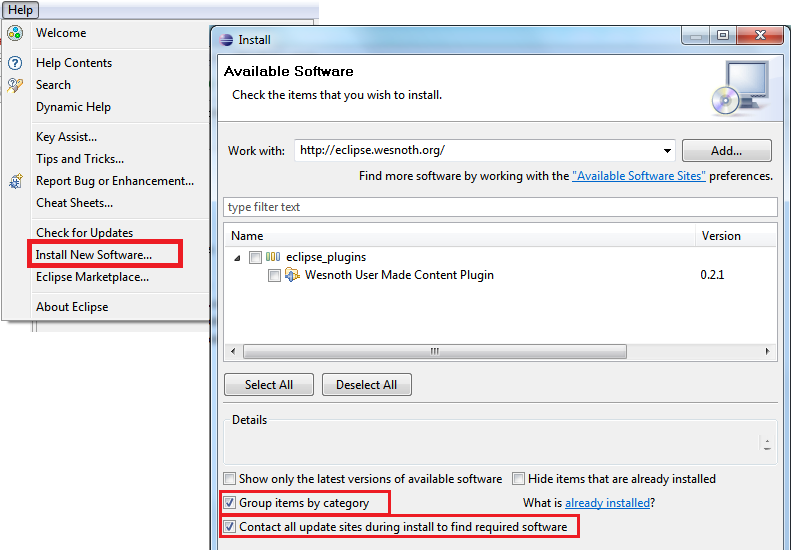
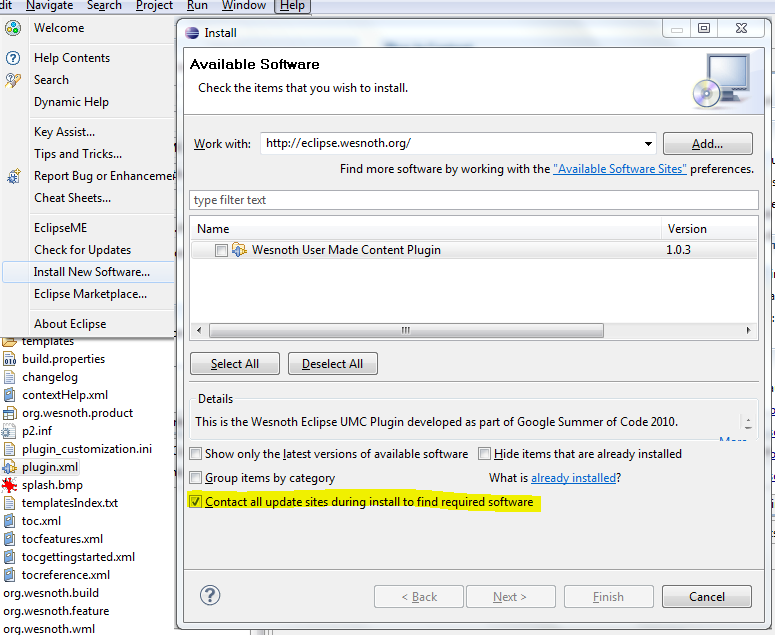
eclipse plugin: Update the user's manual to reflect the current state
git-svn-id: http://svn.gna.org/svn/wesnoth/trunk@50041 75b3775d-3801-0410-9e12-e2e43121521d

diff --git a/utils/umc_dev/manual/user_manual.tex b/utils/umc_dev/manual/user_manual.tex
@@ -1,6 +1,7 @@
 \documentclass[10pt]{article}
 \usepackage[top=1cm, bottom=1cm, left=1cm, right=1cm]{geometry}
 \usepackage{graphicx}
+\usepackage{multicol}
 \usepackage[colorlinks=true]{hyperref}
 \usepackage{verbatim}
 \usepackage{enumerate}
@@ -19,62 +20,74 @@
 \newcounter{cnt}
 \newcommand{\icnt}{ \stepcounter{cnt} \thecnt }
 
-\section{Foreword} \hskip\parindent
+\section{Foreword}
+\begin{multicols}{2}
+  \begin{center}
+    \includegraphics[scale=0.6]{definitions.png}
+  \end{center}
 Through this readme the following terms with the specified meaning will be used:
 \begin{enumerate}
-\item Navigator - an Eclipse view that shows the projects in the workspace
+\item Navigator / Project Explorer / Package Explorer - an Eclipse view that shows the projects in the workspace
 \item Project - a directory on the harddrive that is represented as a top directory in the navigator.
 \item Container - this is a directory or a project. Basically it can contain any file or directory children.
 \end{enumerate}
 
 The following image will highlight the terms used: 1 - Navigator, 2 - Project, 3 - Containers, 4 - Map files, 5 - Config files that contain WML code
+\end{multicols}
 
-\includegraphics{definitions.png}
+\section{Prerequisites}
+A quick list before getting into details:
+\begin{enumerate}
+\item Java 6
+\item Python 2.x
+\item Eclipse 3.5 or newer
+\item Wesnoth 1.9.x, trunk or newer
+\end{enumerate}
 
-\section{Common prerequisites}
+Now for getting all those items:
 \begin{enumerate}
 \item The plugin runs on the following platforms: Windows 32/64 bit, Linux 32/64 bit and Mac OSX 64bit. Note that \textbf{Mac OSX 32 bit} is \textbf{not supported}. If you want to know why, please consult the Frequently Asked Questions section.
-\item Download and install Sun's Java Version 6 (Java SE6):
-\begin{enumerate}
-\item If you are going just to use the plugin (User): \href{https://cds.sun.com/is-bin/INTERSHOP.enfinity/WFS/CDS-CDS_Developer-Site/en_US/-/USD/ViewProductDetail-Start?ProductRef=jre-6u21-oth-JPR@CDS-CDS_Developer}{Download JRE}
-\item If you are going to modify it or run it from source (Developer): \href{http://java.sun.com/javase/downloads/widget/jdk6.jsp}{Download JDK}
-\end{enumerate}
+\item Download and install Oracle/Sun's Java Version 6 (Java SE6): \href{http://java.sun.com/javase/downloads/widget/jdk6.jsp}{Download JDK}
+
 \textit{Note:} The plugin uses Java SE6, thus older versions (like 1.4 or 1.5) don't work with it.\\
-\textit{Note:} Please double check the java installed on your system. On some machines there is the OpenJDK or other Java versions. Use just Sun's so there will be no problems.
+\textit{Note:} Please double check the java installed on your system. On some machines there is the OpenJDK or other Java versions. Just use Oracle/Sun's so there will be no problems.
+
 \item Download and install Python 2.x:
-\begin{enumerate}
-\item \textbf{Windows:} Download and install from here: \href{http://python.org/download/}{Download Python} , selecting a 2.x version
-\item \textbf{Linux:} Use the regular package manager for installing it from the repositories.
-\item \textbf{Mac:} Download and install from here: \href{http://python.org/download/}{Download Python} , selecting a 2.x version
-\item Check the guide over here: \href{http://wiki.python.org/moin/BeginnersGuide/Download}{Python Download and install} 
-\end{enumerate}
-\textit{Note:} Please ensure you install the 2.x versions. Versions 3.x are \textbf{not} supported by the Wesnoth's WML Tools.
-\item Download ``Eclipse" (The download links are in the right. Please ensure you are downloading the \textbf{3.6} version, otherwise the plugin will not work.):
-\begin{enumerate}
-\item If you are going just to use the plugin (User): \href{http://eclipse.org/downloads/packages/eclipse-classic-360/heliosr}{Download Eclipse Classic}
-\item If you are going to modify it or run it from source (Developer):  \href{http://eclipse.org/downloads/packages/eclipse-rcp-and-rap-developers/heliosr}{Download Eclipse for RCP and RAP Developers}
-\end{enumerate}
-\item Extract the downloaded archive in a known location and launch the executable (eclipse / eclipse.exe)\\
-\textit{Note:} You will need to have a wesnoth version 1.9.x or newer, or a version compiled from trunk, in order for the plugin's features to correctly work.
+ \begin{enumerate}
+   \item \textbf{Windows:} Download and install from here: \href{http://python.org/download/}{Download Python} , selecting a 2.x version
+   \item \textbf{Linux:} Use the regular package manager for installing it from the repositories.
+   \item \textbf{Mac:} Download and install from here: \href{http://python.org/download/}{Download Python} , selecting a 2.x version
+   \item Check the guide over here: \href{http://wiki.python.org/moin/BeginnersGuide/Download}{Python Download and install} 
+  \end{enumerate}
+ \textit{Note:} Please ensure you install the 2.x versions. Versions 3.x are \textbf{not} yet supported by the Wesnoth's WML Tools.
+
+\item Download ``Eclipse" (The download links are in the right. Please ensure you are downloading at least the \textbf{3.5} version, otherwise the plugin will not work.):   \href{http://eclipse.org/downloads/packages/eclipse-rcp-and-rap-developers/heliosr}{Download Eclipse for RCP and RAP Developers}
+
+\item Extract the downloaded archive in a known location and launch the executable (eclipse / eclipse.exe)
+
+\item You will need to have a wesnoth version 1.9.x, trunk or newer, in order for the plugin's features to correctly work.
 \end{enumerate}
 
-\section{User}
-\subsection{Installing the plugin}
+\section{Installing the plugin}
 \begin{enumerate}
-\item After launching Eclipse, go to the ``Help'' menu - Install new Software.\\
-  Then, please check ``Group items by category" and ``Contact all update sites during install to find required software", in the bottom of the page.\\ \includegraphics[width=550px]{install_new_software.png}
+\item After launching Eclipse, go to the ``Help'' menu - Install new Software. Then, check the checkbox ``Contact all update sites during install to find required software" (it can be found in the bottom of the page).
+
+\begin{center}
+\includegraphics[scale=0.7]{install_new_software.png}
+\end{center}
+
 \item Insert the link \textbf{http://eclipse.wesnoth.org/} in the textbox in the top and press Enter. The list will be populated with some items.
-\item Select the entire ``Wesnoth UMC Plugin" category and press finish.
+\item Select the single item ``Wesnoth User Made Content Plugin" and press finish.
 
 \textit{Note:} If you are prompted for any license agreements or certificates press Yes on all (if you agree).\\
 \textit{Note:} After the plugin has installed, press ``Restart workbench now" when you are prompted.
 \item Now the plugin is ready to be used.
 \end{enumerate}
 
-\section{Using the plugin} \hskip\parindent
-After you have your plugin installed (user), you can use its features.
+\section{Using the plugin}
+After you have started the plugin, you can use its features.
 
-But before of all, you must ``Setup the workspace". For this, go in the ``Wesnoth" menu (it will have the wesnoth icon) and select ``Setup the workspace". You will be guided setting the workspace. The preferences page for the plugin will pop up, and you must fill them all, so the plugin will work as intended. After you completed the fields, press \textbf{Apply} and then \textbf{OK}. Then the plugin will create for convenience wesnoth projects for each of mainline campaigns and for each directory in your \textbf{useraddons/data/add-ons} directory. The working directory is the directory that contains the data, images, manual, sounds of wesnoth.
+But before of all, you must ``Setup the workspace". For this, go in the ``Wesnoth" menu (it will have the wesnoth icon) and select ``Setup the workspace". You will be guided setting the workspace. The preferences page for the plugin will pop up, and you must fill them all, so the plugin will work as intended. After you completed the fields, press \textbf{Apply} and then \textbf{OK}. Then the plugin will create for convenience (i.e. if you want) wesnoth projects for each of mainline campaigns and for each directory in your \textbf{useraddons/data/add-ons} directory. The working directory is the directory that contains the data, images, manual, sounds of wesnoth.
 
 If there were no errors a message window will open saying: \textbf{Workspace was setup successfully}.
 
@@ -91,12 +104,12 @@ There are some wizards available in the plugin, that will create either projects
 
 There are 3 wizards categories:
 \begin{enumerate}
-\item Project wizards - ``Empty project" and ``Campaign" wizards create new projects in the workspace. The former will create a basic addon directory structure. The latter will create a campaign and it's directory structure.
+\item Project wizards - ``Empty project" and ``Campaign" wizards create new projects in the workspace. The former will create a basic addon directory structure. The latter will create a campaign and its directory structure.
 \item File wizards - ``Wesnoth config file", ``Scenario", ``Era" and ``Faction" wizards create a new file in a selected container.
-\item Wizard launcher - This is a special wizard. It takes a wml tag as input, and generate subsequent needed tags and key inputs. This is generated on the wml schema, so if the schema is incomplete some tags won't be available. This wizard can create a new file or copy the resulted WML into the current edited file.
+\item Wizard launcher - This is a special wizard. It takes a wml tag as input, and generate subsequent needed tags and key inputs. This is generated based on the wml schema, so if the schema is incomplete some tags won't be available. This wizard can create a new file or copy the resulted WML into the current edited file.
 \end{enumerate}
 
-\subsubsection{Menus} \hskip\parindent
+\subsubsection{Menus}
 There are currently 2 types of menus: the context menus for different file/container types and the main menu. For a better distinction the menus have the wenoth icon near each item.
 
 \begin{description}
